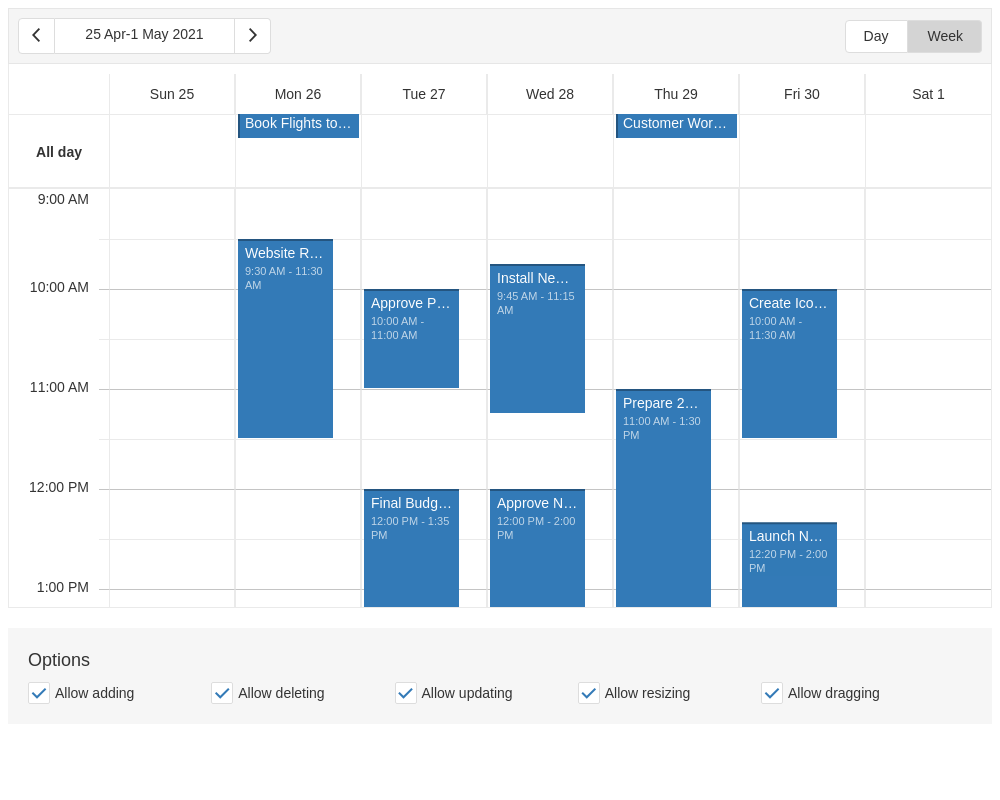
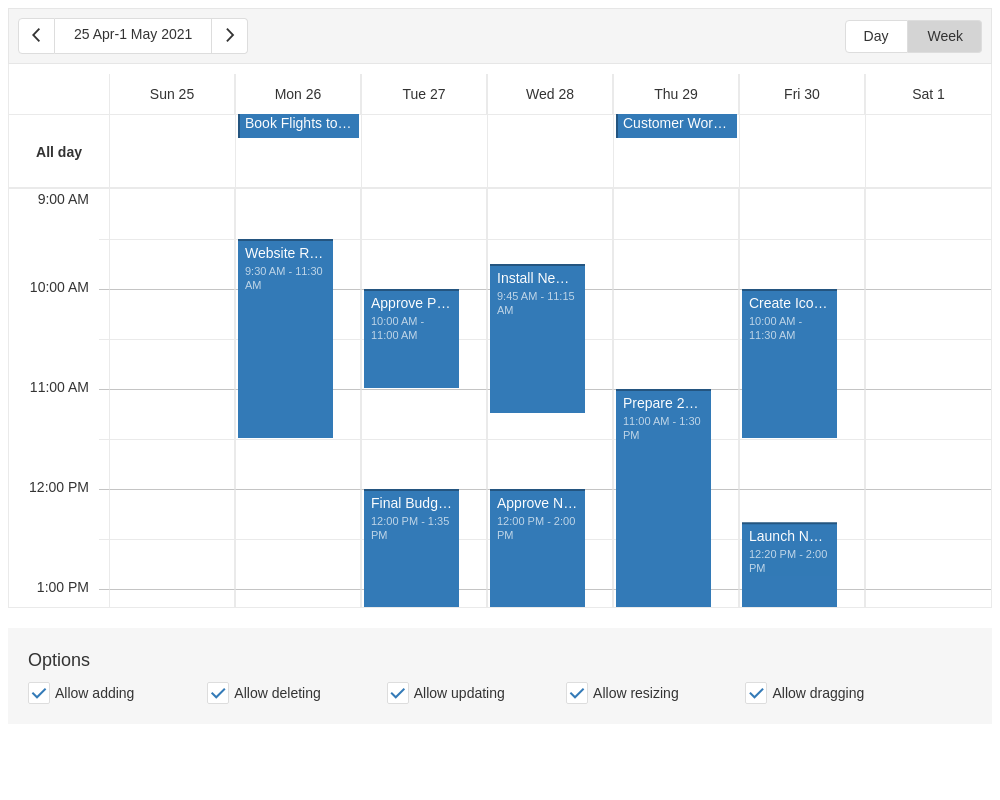
add flex container

diff --git a/JSDemos/Demos/Scheduler/Editing/React/App.js b/JSDemos/Demos/Scheduler/Editing/React/App.js
@@ -47,46 +47,44 @@ class App extends React.Component {
         />
         <div className="options">
           <div className="caption">Options</div>
-          <div className="option">
-            <CheckBox
-              defaultValue={this.state.allowAdding}
-              text="Allow adding"
-              onValueChanged={this.onAllowAddingChanged}
-            />
-          </div>
-          {' '}
-          <div className="option">
-            <CheckBox
-              defaultValue={this.state.allowDeleting}
-              text="Allow deleting"
-              onValueChanged={this.onAllowDeletingChanged}
-            />
-          </div>
-          {' '}
-          <div className="option">
-            <CheckBox
-              defaultValue={this.state.allowUpdating}
-              text="Allow updating"
-              onValueChanged={this.onAllowUpdatingChanged}
-            />
-          </div>
-          {' '}
-          <div className="option">
-            <CheckBox
-              defaultValue={this.state.allowResizing}
-              text="Allow resizing"
-              onValueChanged={this.onAllowResizingChanged}
-              disabled={!this.state.allowUpdating}
-            />
-          </div>
-          {' '}
-          <div className="option">
-            <CheckBox
-              defaultValue={this.state.allowDragging}
-              text="Allow dragging"
-              onValueChanged={this.onAllowDraggingChanged}
-              disabled={!this.state.allowUpdating}
-            />
+          <div className="options-container">
+            <div className="option">
+              <CheckBox
+                defaultValue={this.state.allowAdding}
+                text="Allow adding"
+                onValueChanged={this.onAllowAddingChanged}
+              />
+            </div>
+            <div className="option">
+              <CheckBox
+                defaultValue={this.state.allowDeleting}
+                text="Allow deleting"
+                onValueChanged={this.onAllowDeletingChanged}
+              />
+            </div>
+            <div className="option">
+              <CheckBox
+                defaultValue={this.state.allowUpdating}
+                text="Allow updating"
+                onValueChanged={this.onAllowUpdatingChanged}
+              />
+            </div>
+            <div className="option">
+              <CheckBox
+                defaultValue={this.state.allowResizing}
+                text="Allow resizing"
+                onValueChanged={this.onAllowResizingChanged}
+                disabled={!this.state.allowUpdating}
+              />
+            </div>
+            <div className="option">
+              <CheckBox
+                defaultValue={this.state.allowDragging}
+                text="Allow dragging"
+                onValueChanged={this.onAllowDraggingChanged}
+                disabled={!this.state.allowUpdating}
+              />
+            </div>
           </div>
         </div>
       </React.Fragment>

diff --git a/JSDemos/Demos/Scheduler/Editing/Vue/App.vue b/JSDemos/Demos/Scheduler/Editing/Vue/App.vue
@@ -16,37 +16,39 @@
     />
     <div class="options">
       <div class="caption">Options</div>
-      <div class="option">
-        <DxCheckBox
-          v-model:value="allowAdding"
-          text="Allow adding"
-        />
-      </div>
-      <div class="option">
-        <DxCheckBox
-          v-model:value="allowDeleting"
-          text="Allow deleting"
-        />
-      </div>
-      <div class="option">
-        <DxCheckBox
-          v-model:value="allowUpdating"
-          text="Allow updating"
-        />
-      </div>
-      <div class="option">
-        <DxCheckBox
-          :disabled="!allowUpdating"
-          v-model:value="allowResizing"
-          text="Allow resizing"
-        />
-      </div>
-      <div class="option">
-        <DxCheckBox
-          :disabled="!allowUpdating"
-          v-model:value="allowDragging"
-          text="Allow dragging"
-        />
+      <div class="options-container">
+        <div class="option">
+          <DxCheckBox
+            v-model:value="allowAdding"
+            text="Allow adding"
+          />
+        </div>
+        <div class="option">
+          <DxCheckBox
+            v-model:value="allowDeleting"
+            text="Allow deleting"
+          />
+        </div>
+        <div class="option">
+          <DxCheckBox
+            v-model:value="allowUpdating"
+            text="Allow updating"
+          />
+        </div>
+        <div class="option">
+          <DxCheckBox
+            :disabled="!allowUpdating"
+            v-model:value="allowResizing"
+            text="Allow resizing"
+          />
+        </div>
+        <div class="option">
+          <DxCheckBox
+            :disabled="!allowUpdating"
+            v-model:value="allowDragging"
+            text="Allow dragging"
+          />
+        </div>
       </div>
     </div>
   </div>
@@ -123,8 +125,12 @@ export default {
 
   .option {
     margin-top: 10px;
-    margin-right: 4px;
     display: inline-block;
     width: 19%;
+  }
+
+  .option-container {
+    display: flex;
+    align-items: center;
   }
 </style>

diff --git a/JSDemos/Demos/Scheduler/Editing/Angular/app/app.component.html b/JSDemos/Demos/Scheduler/Editing/Angular/app/app.component.html
@@ -20,19 +20,21 @@
 </dx-scheduler>
 <div class="options">
     <div class="caption">Options</div>
-    <div class="option">
-        <dx-check-box text="Allow adding" [(value)]="editingOptions.allowAdding"></dx-check-box>
-    </div>
-    <div class="option">    
-        <dx-check-box text="Allow deleting" [(value)]="editingOptions.allowDeleting"></dx-check-box>
-    </div>
-    <div class="option">    
-        <dx-check-box text="Allow updating" [(value)]="editingOptions.allowUpdating"></dx-check-box>
-    </div>
-    <div class="option">    
-        <dx-check-box text="Allow resizing" [(value)]="editingOptions.allowResizing" [disabled]="!editingOptions.allowUpdating"></dx-check-box>
-    </div>
-    <div class="option">    
-        <dx-check-box text="Allow dragging" [(value)]="editingOptions.allowDragging" [disabled]="!editingOptions.allowUpdating"></dx-check-box>
+    <div class="option-container">
+        <div class="option">
+            <dx-check-box text="Allow adding" [(value)]="editingOptions.allowAdding"></dx-check-box>
+        </div>
+        <div class="option">
+            <dx-check-box text="Allow deleting" [(value)]="editingOptions.allowDeleting"></dx-check-box>
+        </div>
+        <div class="option">
+            <dx-check-box text="Allow updating" [(value)]="editingOptions.allowUpdating"></dx-check-box>
+        </div>
+        <div class="option">
+            <dx-check-box text="Allow resizing" [(value)]="editingOptions.allowResizing" [disabled]="!editingOptions.allowUpdating"></dx-check-box>
+        </div>
+        <div class="option">
+            <dx-check-box text="Allow dragging" [(value)]="editingOptions.allowDragging" [disabled]="!editingOptions.allowUpdating"></dx-check-box>
+        </div>
     </div>
 </div>

diff --git a/JSDemos/Demos/Scheduler/Editing/AngularJS/index.html b/JSDemos/Demos/Scheduler/Editing/AngularJS/index.html
@@ -19,20 +19,22 @@
         <div dx-scheduler="schedulerOptions"></div>
         <div class="options">
             <div class="caption">Options</div>
-            <div class="option">
-                <div dx-check-box="allowAddingOptions"></div>
-            </div>
-            <div class="option">
-                <div dx-check-box="allowDeletingOptions"></div>
-            </div>
-            <div class="option">
-                <div dx-check-box="allowUpdatingOptions"></div>
-            </div>
-            <div class="option">
-                <div dx-check-box="allowResizingOptions"></div>
-            </div>
-            <div class="option">
-                <div dx-check-box="allowDraggingOptions"></div>
+            <div class="option-container">
+                <div class="option">
+                    <div dx-check-box="allowAddingOptions"></div>
+                </div>
+                <div class="option">
+                    <div dx-check-box="allowDeletingOptions"></div>
+                </div>
+                <div class="option">
+                    <div dx-check-box="allowUpdatingOptions"></div>
+                </div>
+                <div class="option">
+                    <div dx-check-box="allowResizingOptions"></div>
+                </div>
+                <div class="option">
+                    <div dx-check-box="allowDraggingOptions"></div>
+                </div>
             </div>
         </div>
     </div>

diff --git a/JSDemos/Demos/Scheduler/Editing/jQuery/index.html b/JSDemos/Demos/Scheduler/Editing/jQuery/index.html
@@ -19,20 +19,22 @@
         <div id="scheduler"></div>
         <div class="options">
             <div class="caption">Options</div>
-            <div class="option">
-                <div id="allow-adding"></div>
-            </div>
-            <div class="option">
-                <div id="allow-deleting"></div>
-            </div>
-            <div class="option">
-                <div id="allow-updating"></div>
-            </div>
-            <div class="option">
-                <div id="allow-resizing"></div>
-            </div>
-            <div class="option">
-                <div id="allow-dragging"></div>
+            <div class="option-container">
+                <div class="option">
+                    <div id="allow-adding"></div>
+                </div>
+                <div class="option">
+                    <div id="allow-deleting"></div>
+                </div>
+                <div class="option">
+                    <div id="allow-updating"></div>
+                </div>
+                <div class="option">
+                    <div id="allow-resizing"></div>
+                </div>
+                <div class="option">
+                    <div id="allow-dragging"></div>
+                </div>
             </div>
         </div>
     </div>

diff --git a/JSDemos/Demos/Scheduler/Editing/Angular/app/app.component.css b/JSDemos/Demos/Scheduler/Editing/Angular/app/app.component.css
@@ -12,3 +12,7 @@
     display: inline-block;
     width: 19%;
 }
+::ng-deep .option-container {
+    display: flex;
+    align-items: center;
+}

diff --git a/JSDemos/Demos/Scheduler/Editing/AngularJS/styles.css b/JSDemos/Demos/Scheduler/Editing/AngularJS/styles.css
@@ -14,3 +14,8 @@
     display: inline-block;
     width: 19%;
 }
+
+.option-container {
+    display: flex;
+    align-items: center;
+}

diff --git a/JSDemos/Demos/Scheduler/Editing/jQuery/styles.css b/JSDemos/Demos/Scheduler/Editing/jQuery/styles.css
@@ -14,3 +14,8 @@
     display: inline-block;
     width: 19%;
 }
+
+.option-container {
+    display: flex;
+    align-items: center;
+}

diff --git a/JSDemos/Demos/Scheduler/Editing/React/styles.css b/JSDemos/Demos/Scheduler/Editing/React/styles.css
@@ -14,3 +14,8 @@
   display: inline-block;
   width: 19%;
 }
+
+.option-container {
+  display: flex;
+  align-items: center;
+}
